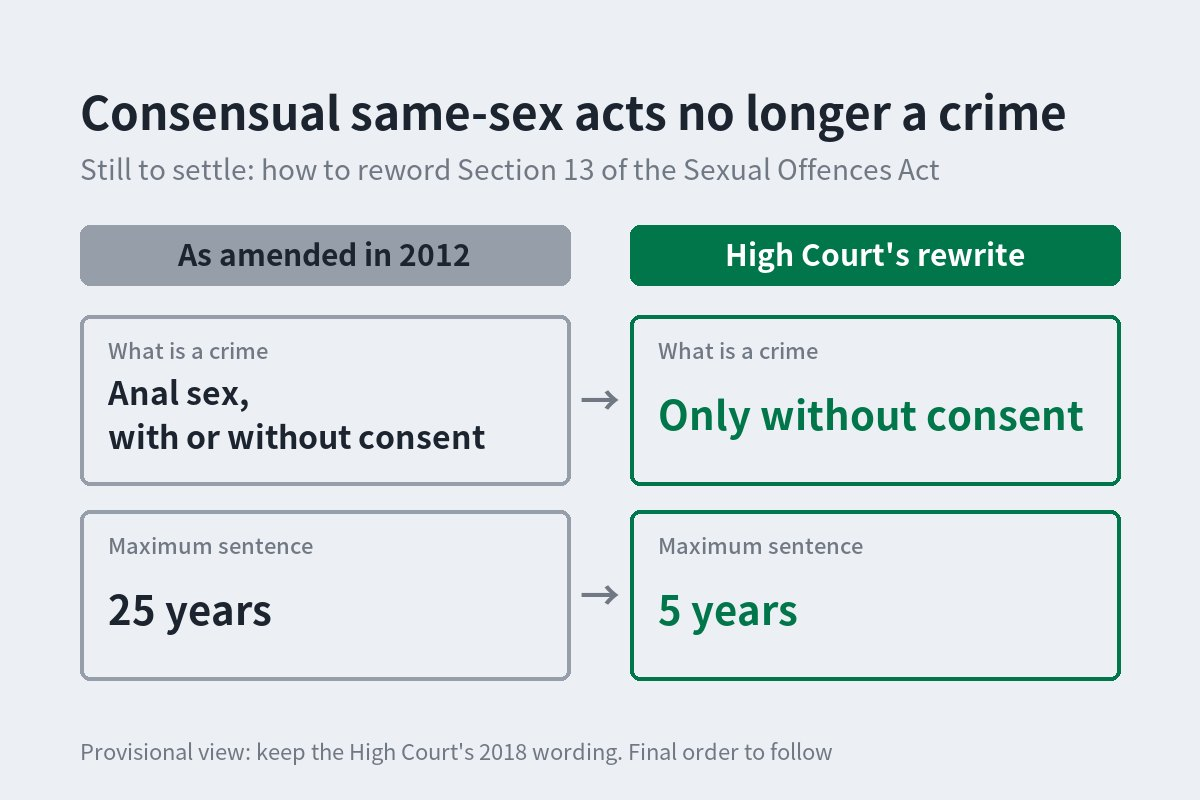
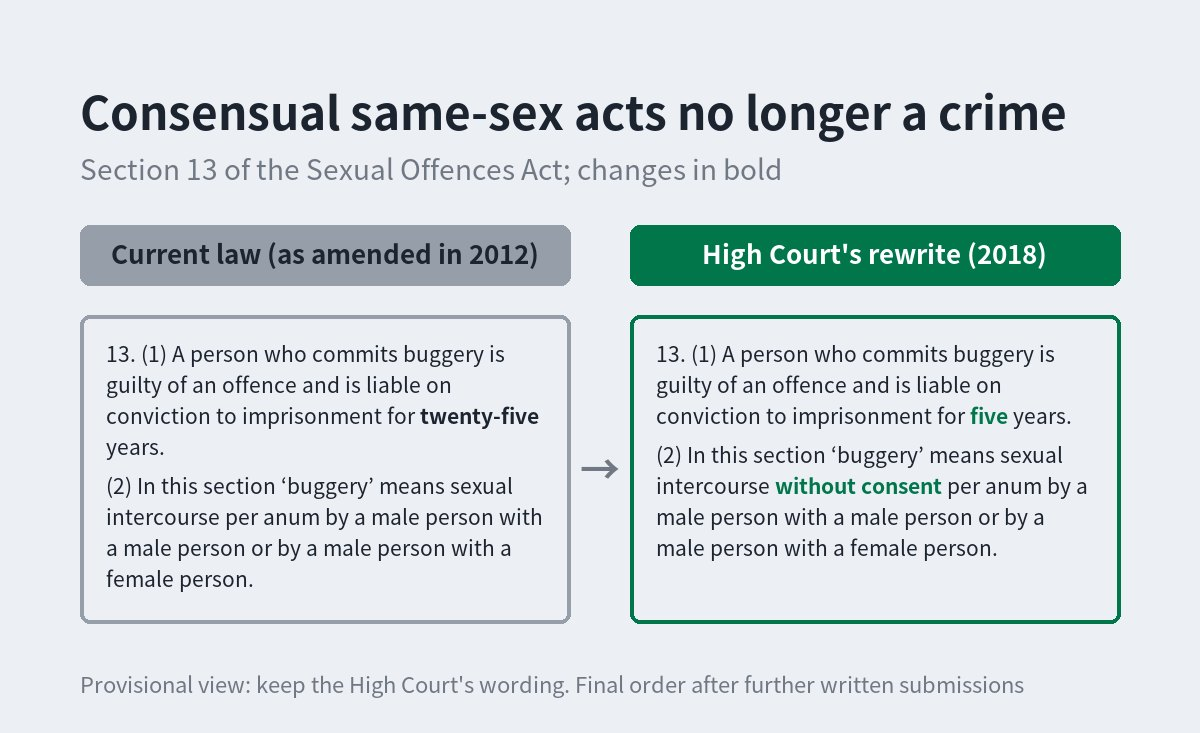
update 2026-11-12

diff --git a/news/trinidad_jcpc_buggery_ruling.html b/news/trinidad_jcpc_buggery_ruling.html
@@ -31,7 +31,7 @@
 <p class="dek">카리브해 섬나라 트리니다드토바고에서 합의한 동성 성인끼리의 성관계까지 처벌하던 조항을, 이 나라 최종 법원인 영국 추밀원이 트리니다드토바고 헌법에 어긋난다고 판단했어요. 정부는 헌법의 두 보호 장치를 내세웠고, 추밀원은 둘 다 받아들이지 않았어요. 남은 건 조문을 어떻게 고칠지예요.</p>
 <div class="paper"><div><a class="by" href="../editorial.html">AI가 썼어요</a><span class="pub"><time datetime="2026-11-12">2026.11.12</time></span></div><div class="sharebar sb-top"><span class="sb-more"><button type="button" class="ic" data-more aria-label="더 보기" title="더 보기"><svg viewBox="0 0 24 24" width="20" height="20" fill="currentColor" aria-hidden="true"><circle cx="5.5" cy="12" r="1.5"/><circle cx="12" cy="12" r="1.5"/><circle cx="18.5" cy="12" r="1.5"/></svg></button><span class="sb-menu"><button type="button" data-share="native" data-u="https://holtnews.com/news/trinidad_jcpc_buggery_ruling.html" data-t="40년 된 법, 왜 지금 기준으로 심판받았나" data-ok="링크를 복사했어요">공유하기</button><button type="button" data-share="copy" data-u="https://holtnews.com/news/trinidad_jcpc_buggery_ruling.html" data-ok="링크를 복사했어요">링크 복사</button><a href="mailto:hello@holtnews.com?subject=오류 제보: 40년 된 법, 왜 지금 기준으로 심판받았나">오류 제보</a></span></span></div></div>
 <figure class="photo"><img src="../img/news/trinidad_jcpc_buggery_ruling.jpg" alt="서로 끌어안은 두 남성" width="1200" height="800"><figcaption>서로 끌어안은 두 남성 · 사진: alllessandro_ · Pixabay</figcaption></figure>
-<section class="sec"><h2><span class="n">01</span>런던에서 내려진 결정</h2><p>영국 <span class="fn">추밀원 사법위원회<button type="button" class="fn-i" aria-label="설명 보기" aria-expanded="false">i</button><span class="fn-box" role="tooltip">추밀원은 영국 국왕에게 조언하던 오래된 자문 기구예요. 그 안의 사법위원회가 법원 역할을 해요. 영국 대법원과는 다른 곳이지만 재판은 주로 영국 대법관들이 겸해서 맡아요. 영국 사건이 아니라, 최종심을 아직 영국에 맡겨 둔 영연방 나라와 영국 해외 영토의 사건을 그 나라 법으로 판단해요.</span></span>가 11월 10일, 트리니다드토바고 성범죄법 13조와 16조가 트리니다드토바고 헌법에 어긋난다고 판단했어요. 대법관 5명 만장일치예요.</p><p>두 조항은 이제 성인이 서로 동의해 사적인 곳에서 한 동성 간 성적 행위에는 적용할 수 없어요. 트리니다드토바고 헌법이 보장하는, 사생활과 가족생활을 존중받을 권리를 침해한다는 이유예요. 미성년자가 관련되거나 동의가 없는 행위는 이번 판결과 상관없이 처벌 대상으로 남아요.</p><p>트리니다드토바고는 남아메리카 베네수엘라 앞바다의 카리브해 섬나라예요. 1962년 영국에서 독립했지만, 마지막 상고심은 지금도 런던의 추밀원이 맡아요. 우리로 치면 대법원 자리를 영국 대법관들이 채우는 셈이에요.</p></section><section class="sec"><h2><span class="n">02</span>두 조항은 무엇을 처벌했나</h2><p>13조는 영어로 buggery, 즉 항문 성교를 처벌해요. 법은 이를 &#x27;남성이 남성 또는 여성과 하는 항문 성교&#x27;로 정의해요. 남성끼리든 남녀 사이든, 서로 동의했든 아니든 처벌 대상이에요.</p><p>최고 형량은 1986년 처음 만들 때 성인끼리면 징역 10년, 성인이 미성년자에게 하면 종신형, 미성년자가 하면 징역 5년이었어요. 2012년 아동법으로 바뀌면서 누가 누구에게 했든 최고 징역 25년이 됐어요.</p><p>16조는 &#x27;중대 외설&#x27;을 처벌해요. 성교가 아니면서 성기를 써서 성적 욕구를 채우는 행위로, 남성과 여성 모두에게 적용돼요. 다만 부부 사이, 또는 16세 이상인 남녀가 서로 동의해 사적인 곳에서 한 행위는 처벌하지 않는다는 예외가 있어요.</p><p>이 예외는 남녀 사이에만 있어요. 두 조항을 합치면, 동성끼리는 성인이 서로 동의했더라도 남성끼리든 여성끼리든 성적 행위가 모두 처벌 대상이 되는 셈이에요.</p></section><section class="sec"><h2><span class="n">03</span>소송을 낸 사람과 그의 주장</h2><p>소송을 낸 제이슨 존스는 1964년 태어나 수도 포트오브스페인에서 자란 트리니다드토바고 시민이에요. 16세 때부터 게이라는 걸 숨기지 않았어요. 성적 지향 때문에 괴롭힘과 차별을 겪다 1996년 영국 잉글랜드로 옮겨 갔고, 2010~2014년 고국에서 다시 살다가 잉글랜드로 돌아갔어요. 그 뒤에도 고국을 자주 오가요.</p><p>존스는 2017년 2월 23일 트리니다드토바고 고등법원에 소송을 냈어요. 13조와 16조가 헌법이 보장한 자신의 기본권을 침해한다는 걸 법원이 확인해 달라는 소송이에요.</p><p>이 나라에서 두 조항으로 기소된 사람은 오랫동안 없었어요. 존스는 법이 있는 것만으로 피해를 본다고 주장했어요. 법원에 낸 진술서에 따르면 그는 밖에 나가면 거의 매일 괴롭힘과 욕설을 들었고, 안전이 걱정돼 대중교통을 피했어요. 가수로 무대에 서면 돌·유리병·나무 조각으로 공격당한 적도 여러 번 있었지만 경찰은 지켜 주지 않았어요. 성적 지향 때문에 언제든 체포돼 무거운 처벌을 받을 수 있다는 불안 속에 살았다고도 했어요.</p><p>진술서는 두 조항이 존스의 삶에 어떤 영향을 줬는지 보여 주는 증거였어요. 소송에서 다툰 건 진술 내용이 아니라 두 조항이 헌법에 어긋나는지였고, 진술은 반박 없이 사실로 받아들여졌어요. 1심은 두 조항이 존스의 사생활을 범죄로 만들고, 누구를 사랑하고 누구와 살지 스스로 정할 존엄을 무시한다고 봤어요. 이성애자와 다르게 대하고, 다른 사람들이 그를 낮춰 보게 만드는 근거가 된다고도 했어요.</p></section><section class="sec"><h2><span class="n">04</span>예외 두 가지</h2><p>정부를 대표한 법무장관은 두 조항이 헌법에 어긋나지 않는다고 맞섰어요. 트리니다드토바고 헌법에는 기본권과 어긋나는 법도 살려 두는 예외 조항이 있는데, 두 조항이 여기에 해당해 유효하다는 거예요. 정부가 내세운 예외는 두 가지였어요.</p><p>첫째는 헌법 6조예요. 6조에 따르면 현행 헌법이 시행된 1976년 전에 만들어진 법은 헌법상 기본권을 침해하더라도 효력을 잃지 않아요.</p><p>트리니다드토바고가 영국 식민지였던 1925년에도 비슷한 처벌법이 있었어요. 항문 성교와, 남성끼리의 &#x27;심한 외설&#x27; 행위를 처벌했어요. 여성끼리는 처벌하지 않았어요. 1986년 성범죄법은 이 1925년 법을 없애고 대신한 법이에요. 여성끼리의 행위도 16조로 처벌하게 됐고, 형량도 무거워졌어요.</p><p>그래서 1986년 법을 1976년 전의 옛 법처럼 보호할 수 있느냐가 쟁점이 됐어요. 여기서 6조 2항이 나와요. 옛 법을 고쳐 다시 만든 법도 6조의 보호를 받되, 옛 법보다 기본권을 더 제한한 부분만은 효력을 잃고 그 자리에 옛 법 조항이 다시 적용된다는 조항이에요. 존스 쪽 변호인은 이걸 &#x27;되돌리기&#x27; 조항이라고 불렀어요.</p><p>둘째는 헌법 13조예요. 법에 &#x27;기본권과 어긋나더라도 효력을 가진다&#x27;고 적고 상·하원에서 각각 전체 의원 5분의 3 이상이 찬성하면, 그 법은 기본권과 어긋나도 유효해요. 1986년 성범죄법이 이 절차로 통과됐어요.</p><p>13조에는 단서가 붙어 있어요. 그 법이 &#x27;권리와 자유를 제대로 존중하는 사회&#x27;에서 정당화할 수 없다는 게 드러나면 13조의 보호를 받지 못해요.</p></section><section class="sec"><h2><span class="n">05</span>첫째 예외: 1986년 법은 옛 법인가</h2><p>1심 고등법원은 2018년 4월 12일, 1986년 법은 옛 법이 아니라 6조의 보호를 받지 못한다고 보고 두 조항이 위헌이라고 판단했어요.</p><p>항소법원은 2025년 3월 25일 이 판단을 뒤집었어요. 1986년 법은 1925년 법을 고쳐 다시 만든 법이니 6조 2항이 적용된다고 봤어요. 여성끼리의 행위까지 처벌하고 형량을 높인 부분은 1925년 법보다 기본권을 더 제한하니, 그 부분만 효력을 잃고 1925년 법이 되살아난다는 거예요.</p><p>그 결과 여성끼리의 행위는 처벌 대상에서 빠졌지만, 합의한 성인 남성끼리는 여전히 최고 징역 5년으로 처벌받을 수 있었어요.</p><p>추밀원은 이 판단을 다시 뒤집었어요. 1986년 법은 옛 법을 고친 게 아니라 새로 만든 법이라 6조 2항이 적용되지 않는다는 거예요. 1986년 법은 첫머리에 옛 법을 &#x27;없애고 대신한다&#x27;고 적었고, 정부가 법률위원회 권고를 받아 성범죄 법 전체를 새로 짰다는 점을 근거로 들었어요.</p><p>옛 법을 살려 두는 예외 조항을 넓게 읽으면 기본권을 지키려는 헌법의 목적이 약해지니, 좁게 읽어야 한다고도 했어요.</p></section><section class="sec"><h2><span class="n">06</span>둘째 예외: 1986년 기준이냐, 지금 기준이냐</h2><p>둘째 예외인 헌법 13조에 대해서는 1심 판사와 항소법원 판사 3명, 모두 4명의 의견이 같았어요. 두 조항은 &#x27;권리와 자유를 제대로 존중하는 사회&#x27;에서 정당화할 수 없으니 13조의 보호를 받지 못한다는 거예요. 그러자 정부는 추밀원에서 새 주장을 처음 꺼냈어요.</p><p>정당한지는 법이 만들어진 1986년 기준으로 따져야 한다는 주장이에요. 40년 사이 사회 인식이 크게 바뀌었으니, 지금 기준으로 내린 결론이 1986년에도 맞는다고 볼 수는 없다는 거예요.</p><p>추밀원은 받아들이지 않았어요. 기본권 침해를 다투는 사람은 지금을 사는 사람이니 지금 기준으로 따져야 한다고 봤어요. 1986년 법을 통과시킨 의원과 유권자도 40년 사이 크게 바뀌었다고 짚었어요.</p><p>정부가 두 조항을 정당화하며 내세운 근거는 &#x27;전통&#x27;뿐이었어요. 추밀원은 식민지 시절 법이 오래 살아남았다는 사실만으로는 정당한 목적이 될 수 없다고 했어요. 지금도 사회가 널리 지키는 관습이라고 주장하려면 증거가 있어야 하는데, 정부는 하나도 내지 않았어요. 설령 목적이 정당하더라도, 사생활의 가장 깊은 부분까지 처벌하는 건 얻는 것에 비해 침해가 너무 크다고 덧붙였어요.</p></section><section class="sec"><h2><span class="n">07</span>남은 건 고칠 문구</h2><p>사적인 곳에서 합의한 동성 성인을 처벌할 수 없다는 판단은 이번에 정해졌어요. 남은 건 조문을 어떻게 고칠지예요.</p><p>1심은 2018년 9월 20일, 두 조항을 통째로 없애지 않고 문구를 고쳐 남겨 두는 명령을 냈어요. 13조는 &#x27;동의 없는&#x27; 경우만 처벌하고 최고 형량을 징역 5년으로 낮추는 식이에요. 추밀원은 이 문구를 그대로 두는 쪽으로 잠정 의견을 냈어요.</p><p>존스 쪽은 두 조항을 통째로 지워 달라고 했어요. 처벌이 필요한 행위는 다른 형법 조항으로 이미 처벌할 수 있다는 이유예요. 추밀원은 겹치는 범죄를 정리하는 건 법원이 아니라 의회 몫이라고 선을 그었어요.</p><p>존스 쪽이 원하면 서면 의견을 더 받고, 법무장관도 답할 기회를 얻은 뒤 최종 명령이 나와요.</p></section><figure class="photo"><img src="../img/news/trinidad_jcpc_buggery_ruling-b.jpg" alt="트리니다드토바고 성범죄법 13조, 2012년 개정 조문과 1심이 2018년 고친 문구" loading="lazy" width="1200" height="800"><figcaption>트리니다드토바고 성범죄법 13조, 2012년 개정 조문과 1심이 2018년 고친 문구 · 그림: HOLT NEWS · 자료: 영국 추밀원 판결문</figcaption></figure><section class="sec"><h2><span class="n">08</span>이웃 나라로 번질까</h2><p>6조 2항, 즉 &#x27;되돌리기&#x27; 조항에 관한 판단은 다른 나라에 쓰이기 어려워요. 추밀원은 이런 조항이 트리니다드토바고에만 있는 것 같다고 했고, 양쪽 변호인 모두 다른 나라 헌법에서 비슷한 조항을 찾지 못했다고 적었어요.</p><p>나머지 두 판단은 다른 나라에도 쓰일 수 있어요. 세인트루시아처럼 다른 나라 헌법에도 독립 전 법을 기본권 심사에서 빼 주는 예외 조항이 있어요. 추밀원은 이런 예외 조항을 좁게 읽어야 한다고 했어요. 옛 법과 비슷해 보여도 새로 만든 법이면 보호하지 않는다는 뜻이에요. 이 원칙은 추밀원이 세인트루시아 헌법 판례에서 가져온 거예요.</p><p>법이 정당한지는 만들어진 때가 아니라 지금 기준으로 따진다는 판단도, 비슷한 처벌법을 다투는 다른 나라 소송에서 인용될 수 있어요. 판결문은 바베이도스·도미니카·세인트루시아 법원의 최근 판결을 들며 처벌하지 않는 쪽으로 흐름이 분명하다고 적었어요. 이번 소송엔 벨리즈·버뮤다 등 다른 지역 단체도 의견서를 냈어요.</p></section><script>(function(){if(window.__fn)return;window.__fn=1;function fit(f){var b=f.querySelector('.fn-box');b.style.left='';f.classList.remove('down');var r=b.getBoundingClientRect(),w=document.documentElement.clientWidth;if(r.right>w-12)b.style.left=(b.offsetLeft-(r.right-(w-12)))+'px';if(r.top<80)f.classList.add('down');}document.querySelectorAll('.fn').forEach(function(f){f.addEventListener('mouseenter',function(){fit(f)})});document.addEventListener('click',function(ev){var i=ev.target.closest('.fn-i');document.querySelectorAll('.fn.open').forEach(function(x){if(!i||x!==i.parentNode){x.classList.remove('open');x.querySelector('.fn-i').setAttribute('aria-expanded','false')}});if(i){var f=i.parentNode,o=f.classList.toggle('open');i.setAttribute('aria-expanded',o?'true':'false');if(o)fit(f)}});document.addEventListener('keydown',function(ev){if(ev.key==='Escape')document.querySelectorAll('.fn.open').forEach(function(x){x.classList.remove('open')})})})()</script>
+<section class="sec"><h2><span class="n">01</span>런던에서 내려진 결정</h2><p>영국 <span class="fn">추밀원 사법위원회<button type="button" class="fn-i" aria-label="설명 보기" aria-expanded="false">i</button><span class="fn-box" role="tooltip">추밀원은 영국 국왕에게 조언하던 오래된 자문 기구예요. 그 안의 사법위원회가 법원 역할을 해요. 영국 대법원과는 다른 곳이지만 재판은 주로 영국 대법관들이 겸해서 맡아요. 영국 사건이 아니라, 최종심을 아직 영국에 맡겨 둔 영연방 나라와 영국 해외 영토의 사건을 그 나라 법으로 판단해요.</span></span>가 11월 10일, 트리니다드토바고 성범죄법 13조와 16조가 트리니다드토바고 헌법에 어긋난다고 판단했어요. 대법관 5명 만장일치예요.</p><p>두 조항은 이제 성인이 서로 동의해 사적인 곳에서 한 동성 간 성적 행위에는 적용할 수 없어요. 트리니다드토바고 헌법이 보장하는, 사생활과 가족생활을 존중받을 권리를 침해한다는 이유예요. 미성년자가 관련되거나 동의가 없는 행위는 이번 판결과 상관없이 처벌 대상으로 남아요.</p><p>트리니다드토바고는 남아메리카 베네수엘라 앞바다의 카리브해 섬나라예요. 1962년 영국에서 독립했지만, 마지막 상고심은 지금도 런던의 추밀원이 맡아요. 우리로 치면 대법원 자리를 영국 대법관들이 채우는 셈이에요.</p></section><section class="sec"><h2><span class="n">02</span>두 조항은 무엇을 처벌했나</h2><p>13조는 영어로 buggery, 즉 항문 성교를 처벌해요. 법은 이를 &#x27;남성이 남성 또는 여성과 하는 항문 성교&#x27;로 정의해요. 남성끼리든 남녀 사이든, 서로 동의했든 아니든 처벌 대상이에요.</p><p>최고 형량은 1986년 처음 만들 때 성인끼리면 징역 10년, 성인이 미성년자에게 하면 종신형, 미성년자가 하면 징역 5년이었어요. 2012년 아동법으로 바뀌면서 누가 누구에게 했든 최고 징역 25년이 됐어요.</p><p>16조는 &#x27;중대 외설&#x27;을 처벌해요. 성교가 아니면서 성기를 써서 성적 욕구를 채우는 행위로, 남성과 여성 모두에게 적용돼요. 다만 부부 사이, 또는 16세 이상인 남녀가 서로 동의해 사적인 곳에서 한 행위는 처벌하지 않는다는 예외가 있어요.</p><p>이 예외는 남녀 사이에만 있어요. 두 조항을 합치면, 동성끼리는 성인이 서로 동의했더라도 남성끼리든 여성끼리든 성적 행위가 모두 처벌 대상이 되는 셈이에요.</p></section><section class="sec"><h2><span class="n">03</span>소송을 낸 사람과 그의 주장</h2><p>소송을 낸 제이슨 존스는 1964년 태어나 수도 포트오브스페인에서 자란 트리니다드토바고 시민이에요. 16세 때부터 게이라는 걸 숨기지 않았어요. 성적 지향 때문에 괴롭힘과 차별을 겪다 1996년 영국 잉글랜드로 옮겨 갔고, 2010~2014년 고국에서 다시 살다가 잉글랜드로 돌아갔어요. 그 뒤에도 고국을 자주 오가요.</p><p>존스는 2017년 2월 23일 트리니다드토바고 고등법원에 소송을 냈어요. 13조와 16조가 헌법이 보장한 자신의 기본권을 침해한다는 걸 법원이 확인해 달라는 소송이에요.</p><p>이 나라에서 두 조항으로 기소된 사람은 오랫동안 없었어요. 존스는 법이 있는 것만으로 피해를 본다고 주장했어요. 법원에 낸 진술서에 따르면 그는 밖에 나가면 거의 매일 괴롭힘과 욕설을 들었고, 안전이 걱정돼 대중교통을 피했어요. 가수로 무대에 서면 돌·유리병·나무 조각으로 공격당한 적도 여러 번 있었지만 경찰은 지켜 주지 않았어요. 성적 지향 때문에 언제든 체포돼 무거운 처벌을 받을 수 있다는 불안 속에 살았다고도 했어요.</p><p>진술서는 두 조항이 존스의 삶에 어떤 영향을 줬는지 보여 주는 증거였어요. 소송에서 다툰 건 진술 내용이 아니라 두 조항이 헌법에 어긋나는지였고, 진술은 반박 없이 사실로 받아들여졌어요. 1심은 두 조항이 존스의 사생활을 범죄로 만들고, 누구를 사랑하고 누구와 살지 스스로 정할 존엄을 무시한다고 봤어요. 이성애자와 다르게 대하고, 다른 사람들이 그를 낮춰 보게 만드는 근거가 된다고도 했어요.</p></section><section class="sec"><h2><span class="n">04</span>예외 두 가지</h2><p>정부를 대표한 법무장관은 두 조항이 헌법에 어긋나지 않는다고 맞섰어요. 트리니다드토바고 헌법에는 기본권과 어긋나는 법도 살려 두는 예외 조항이 있는데, 두 조항이 여기에 해당해 유효하다는 거예요. 정부가 내세운 예외는 두 가지였어요.</p><p>첫째는 헌법 6조예요. 6조에 따르면 현행 헌법이 시행된 1976년 전에 만들어진 법은 헌법상 기본권을 침해하더라도 효력을 잃지 않아요.</p><p>트리니다드토바고가 영국 식민지였던 1925년에도 비슷한 처벌법이 있었어요. 항문 성교와, 남성끼리의 &#x27;심한 외설&#x27; 행위를 처벌했어요. 여성끼리는 처벌하지 않았어요. 1986년 성범죄법은 이 1925년 법을 없애고 대신한 법이에요. 여성끼리의 행위도 16조로 처벌하게 됐고, 형량도 무거워졌어요.</p><p>그래서 1986년 법을 1976년 전의 옛 법처럼 보호할 수 있느냐가 쟁점이 됐어요. 여기서 6조 2항이 나와요. 옛 법을 고쳐 다시 만든 법도 6조의 보호를 받되, 옛 법보다 기본권을 더 제한한 부분만은 효력을 잃고 그 자리에 옛 법 조항이 다시 적용된다는 조항이에요. 존스 쪽 변호인은 이걸 &#x27;되돌리기&#x27; 조항이라고 불렀어요.</p><p>둘째는 헌법 13조예요. 법에 &#x27;기본권과 어긋나더라도 효력을 가진다&#x27;고 적고 상·하원에서 각각 전체 의원 5분의 3 이상이 찬성하면, 그 법은 기본권과 어긋나도 유효해요. 1986년 성범죄법이 이 절차로 통과됐어요.</p><p>13조에는 단서가 붙어 있어요. 그 법이 &#x27;권리와 자유를 제대로 존중하는 사회&#x27;에서 정당화할 수 없다는 게 드러나면 13조의 보호를 받지 못해요.</p></section><section class="sec"><h2><span class="n">05</span>첫째 예외: 1986년 법은 옛 법인가</h2><p>1심 고등법원은 2018년 4월 12일, 1986년 법은 옛 법이 아니라 6조의 보호를 받지 못한다고 보고 두 조항이 위헌이라고 판단했어요.</p><p>항소법원은 2025년 3월 25일 이 판단을 뒤집었어요. 1986년 법은 1925년 법을 고쳐 다시 만든 법이니 6조 2항이 적용된다고 봤어요. 여성끼리의 행위까지 처벌하고 형량을 높인 부분은 1925년 법보다 기본권을 더 제한하니, 그 부분만 효력을 잃고 1925년 법이 되살아난다는 거예요.</p><p>그 결과 여성끼리의 행위는 처벌 대상에서 빠졌지만, 합의한 성인 남성끼리는 여전히 최고 징역 5년으로 처벌받을 수 있었어요.</p><p>추밀원은 이 판단을 다시 뒤집었어요. 1986년 법은 옛 법을 고친 게 아니라 새로 만든 법이라 6조 2항이 적용되지 않는다는 거예요. 1986년 법은 첫머리에 옛 법을 &#x27;없애고 대신한다&#x27;고 적었고, 정부가 법률위원회 권고를 받아 성범죄 법 전체를 새로 짰다는 점을 근거로 들었어요.</p><p>옛 법을 살려 두는 예외 조항을 넓게 읽으면 기본권을 지키려는 헌법의 목적이 약해지니, 좁게 읽어야 한다고도 했어요.</p></section><section class="sec"><h2><span class="n">06</span>둘째 예외: 1986년 기준이냐, 지금 기준이냐</h2><p>둘째 예외인 헌법 13조에 대해서는 1심 판사와 항소법원 판사 3명, 모두 4명의 의견이 같았어요. 두 조항은 &#x27;권리와 자유를 제대로 존중하는 사회&#x27;에서 정당화할 수 없으니 13조의 보호를 받지 못한다는 거예요. 그러자 정부는 추밀원에서 새 주장을 처음 꺼냈어요.</p><p>정당한지는 법이 만들어진 1986년 기준으로 따져야 한다는 주장이에요. 40년 사이 사회 인식이 크게 바뀌었으니, 지금 기준으로 내린 결론이 1986년에도 맞는다고 볼 수는 없다는 거예요.</p><p>추밀원은 받아들이지 않았어요. 기본권 침해를 다투는 사람은 지금을 사는 사람이니 지금 기준으로 따져야 한다고 봤어요. 1986년 법을 통과시킨 의원과 유권자도 40년 사이 크게 바뀌었다고 짚었어요.</p><p>정부가 두 조항을 정당화하며 내세운 근거는 &#x27;전통&#x27;뿐이었어요. 추밀원은 식민지 시절 법이 오래 살아남았다는 사실만으로는 정당한 목적이 될 수 없다고 했어요. 지금도 사회가 널리 지키는 관습이라고 주장하려면 증거가 있어야 하는데, 정부는 하나도 내지 않았어요. 설령 목적이 정당하더라도, 사생활의 가장 깊은 부분까지 처벌하는 건 얻는 것에 비해 침해가 너무 크다고 덧붙였어요.</p></section><section class="sec"><h2><span class="n">07</span>남은 건 고칠 문구</h2><p>사적인 곳에서 합의한 동성 성인을 처벌할 수 없다는 판단은 이번에 정해졌어요. 남은 건 조문을 어떻게 고칠지예요.</p><p>1심은 2018년 9월 20일, 두 조항을 통째로 없애지 않고 문구를 고쳐 남겨 두는 명령을 냈어요. 13조는 &#x27;동의 없는&#x27; 경우만 처벌하고 최고 형량을 징역 5년으로 낮추는 식이에요. 추밀원은 이 문구를 그대로 두는 쪽으로 잠정 의견을 냈어요.</p><p>존스 쪽은 두 조항을 통째로 지워 달라고 했어요. 처벌이 필요한 행위는 다른 형법 조항으로 이미 처벌할 수 있다는 이유예요. 추밀원은 겹치는 범죄를 정리하는 건 법원이 아니라 의회 몫이라고 선을 그었어요.</p><p>존스 쪽이 원하면 서면 의견을 더 받고, 법무장관도 답할 기회를 얻은 뒤 최종 명령이 나와요.</p></section><figure class="photo"><img src="../img/news/trinidad_jcpc_buggery_ruling-b.jpg" alt="트리니다드토바고 성범죄법 13조, 2012년 개정 조문과 1심이 2018년 고친 문구" loading="lazy" width="1200" height="890"><figcaption>트리니다드토바고 성범죄법 13조, 2012년 개정 조문과 1심이 2018년 고친 문구 · 그림: HOLT NEWS · 자료: 영국 추밀원 판결문</figcaption></figure><section class="sec"><h2><span class="n">08</span>이웃 나라로 번질까</h2><p>6조 2항, 즉 &#x27;되돌리기&#x27; 조항에 관한 판단은 다른 나라에 쓰이기 어려워요. 추밀원은 이런 조항이 트리니다드토바고에만 있는 것 같다고 했고, 양쪽 변호인 모두 다른 나라 헌법에서 비슷한 조항을 찾지 못했다고 적었어요.</p><p>나머지 두 판단은 다른 나라에도 쓰일 수 있어요. 세인트루시아처럼 다른 나라 헌법에도 독립 전 법을 기본권 심사에서 빼 주는 예외 조항이 있어요. 추밀원은 이런 예외 조항을 좁게 읽어야 한다고 했어요. 옛 법과 비슷해 보여도 새로 만든 법이면 보호하지 않는다는 뜻이에요. 이 원칙은 추밀원이 세인트루시아 헌법 판례에서 가져온 거예요.</p><p>법이 정당한지는 만들어진 때가 아니라 지금 기준으로 따진다는 판단도, 비슷한 처벌법을 다투는 다른 나라 소송에서 인용될 수 있어요. 판결문은 바베이도스·도미니카·세인트루시아 법원의 최근 판결을 들며 처벌하지 않는 쪽으로 흐름이 분명하다고 적었어요. 이번 소송엔 벨리즈·버뮤다 등 다른 지역 단체도 의견서를 냈어요.</p></section><script>(function(){if(window.__fn)return;window.__fn=1;function fit(f){var b=f.querySelector('.fn-box');b.style.left='';f.classList.remove('down');var r=b.getBoundingClientRect(),w=document.documentElement.clientWidth;if(r.right>w-12)b.style.left=(b.offsetLeft-(r.right-(w-12)))+'px';if(r.top<80)f.classList.add('down');}document.querySelectorAll('.fn').forEach(function(f){f.addEventListener('mouseenter',function(){fit(f)})});document.addEventListener('click',function(ev){var i=ev.target.closest('.fn-i');document.querySelectorAll('.fn.open').forEach(function(x){if(!i||x!==i.parentNode){x.classList.remove('open');x.querySelector('.fn-i').setAttribute('aria-expanded','false')}});if(i){var f=i.parentNode,o=f.classList.toggle('open');i.setAttribute('aria-expanded',o?'true':'false');if(o)fit(f)}});document.addEventListener('keydown',function(ev){if(ev.key==='Escape')document.querySelectorAll('.fn.open').forEach(function(x){x.classList.remove('open')})})})()</script>
 <div class="fix"><h4>바로잡습니다</h4><ul><li><time datetime="2026-11-12">2026.11.12</time> 16조 예외 나이를 판결문 문구대로 &#x27;16세가 넘고&#x27;에서 &#x27;16세 이상&#x27;으로 바로잡고, 부부 사이 예외를 넣었습니다. 소송을 낸 존스가 무엇을 주장했는지와 진술서 내용을 판결문대로 보강했습니다.</li></ul></div>
 <div class="sharebar sb-end"><span class="sb-more"><button type="button" class="ic" data-more aria-label="더 보기" title="더 보기"><svg viewBox="0 0 24 24" width="20" height="20" fill="currentColor" aria-hidden="true"><circle cx="5.5" cy="12" r="1.5"/><circle cx="12" cy="12" r="1.5"/><circle cx="18.5" cy="12" r="1.5"/></svg></button><span class="sb-menu"><button type="button" data-share="native" data-u="https://holtnews.com/news/trinidad_jcpc_buggery_ruling.html" data-t="40년 된 법, 왜 지금 기준으로 심판받았나" data-ok="링크를 복사했어요">공유하기</button><button type="button" data-share="copy" data-u="https://holtnews.com/news/trinidad_jcpc_buggery_ruling.html" data-ok="링크를 복사했어요">링크 복사</button><a href="mailto:hello@holtnews.com?subject=오류 제보: 40년 된 법, 왜 지금 기준으로 심판받았나">오류 제보</a></span></span></div>
 

diff --git a/en/news/trinidad_jcpc_buggery_ruling.html b/en/news/trinidad_jcpc_buggery_ruling.html
@@ -31,7 +31,7 @@
 <p class="dek">Britain&#x27;s Privy Council, the final court of appeal for Trinidad and Tobago, has ruled that laws criminalising sex between consenting adults of the same sex breach the constitution. The government argued two constitutional shields protected the laws. The court rejected both; only the exact wording of the fix is still to be settled.</p>
 <div class="paper"><div><a class="by" href="../editorial.html">Written by AI</a><span class="pub"><time datetime="2026-11-12">Nov 12, 2026</time></span></div><div class="sharebar sb-top"><span class="sb-more"><button type="button" class="ic" data-more aria-label="More" title="More"><svg viewBox="0 0 24 24" width="20" height="20" fill="currentColor" aria-hidden="true"><circle cx="5.5" cy="12" r="1.5"/><circle cx="12" cy="12" r="1.5"/><circle cx="18.5" cy="12" r="1.5"/></svg></button><span class="sb-menu"><button type="button" data-share="native" data-u="https://holtnews.com/en/news/trinidad_jcpc_buggery_ruling.html" data-t="Trinidad and Tobago&#x27;s buggery law breaches rights, Privy Council rules" data-ok="Link copied">Share</button><button type="button" data-share="copy" data-u="https://holtnews.com/en/news/trinidad_jcpc_buggery_ruling.html" data-ok="Link copied">Copy link</button><a href="mailto:hello@holtnews.com?subject=Error report: Trinidad and Tobago&#x27;s buggery law breaches rights, Privy Council rules">Report an error</a></span></span></div></div>
 <figure class="photo"><img src="../../img/news/trinidad_jcpc_buggery_ruling.jpg" alt="Two men embrace" width="1200" height="800"><figcaption>Two men embrace · Photo: alllessandro_ · Pixabay</figcaption></figure>
-<section class="sec"><h2><span class="n">01</span>The ruling</h2><p>Five judges of the <span class="fn">Judicial Committee of the Privy Council<button type="button" class="fn-i" aria-label="Show note" aria-expanded="false">i</button><span class="fn-box" role="tooltip">The Privy Council is an old body that advises the British monarch. Its Judicial Committee works as a court. It is separate from the UK Supreme Court, though mostly the same justices sit on it. It hears final appeals from some Commonwealth countries and UK overseas territories, applying their own laws.</span></span> ruled unanimously on November 10 that two sections of Trinidad and Tobago&#x27;s Sexual Offences Act 1986 breach the right to respect for private and family life in the country&#x27;s constitution.</p><p>Trinidad and Tobago, a Caribbean nation off the coast of Venezuela, became independent from Britain in 1962 but still sends its final appeals to the Privy Council in London, a court staffed mainly by UK Supreme Court justices.</p></section><section class="sec"><h2><span class="n">02</span>What the law punishes</h2><p>Section 13 makes buggery a crime whether or not both people consent. Since a 2012 amendment, the maximum sentence has been 25 years. Section 16 criminalises &quot;serious indecency&quot;, with exceptions only for husband and wife, or a man and a woman aged 16 or over who both consent, acting in private.</p><p>The case was brought in February 2017 by Jason Jones, a gay man born in 1964 and raised in Port of Spain, the capital. He asked the courts to declare that the two sections breached his constitutional rights. No one had been prosecuted under them for many years, but he said their existence alone harmed him. In unchallenged evidence he described near-daily harassment and abuse in public, avoiding public transport for fear of his safety, and being attacked several times with rocks, glass bottles and pieces of wood at his performances as a singer, without protection from the police. He lived in constant fear of arrest and punishment. After years of harassment and discrimination he moved to England in 1996, returning to live in Trinidad from 2010 to 2014.</p><p>The trial judge agreed that the law made his private life criminal, ignored his dignity to choose whom to love and live with, treated him differently from heterosexual citizens and gave others a reason to see him as of lesser value.</p></section><section class="sec"><h2><span class="n">03</span>Two shields, both rejected</h2><p>The government argued that the constitution protected the law in two ways. The first was a &quot;savings clause&quot;. Section 6 shields laws that existed before the 1976 constitution from rights challenges. Section 6(2) covers later laws that re-enact those old laws with changes: where a new law restricts rights further than the old one, the old rules snap back in its place. Sex between men was already a crime under a 1925 colonial-era ordinance.</p><p>In March 2025 the Court of Appeal accepted the savings-clause argument and put the older rules back in place. Under that ruling, sex between consenting adult men would still have been a crime, with a maximum of five years. The Privy Council did not. The 1986 act said it would &quot;repeal and replace&quot; the old law, the judges noted, and it was a fresh, comprehensive code drafted after a Law Commission review. Clauses that shield old laws from rights challenges should be read narrowly, they said, or they would hollow out the constitution&#x27;s purpose.</p><p>The second shield was section 13. A law that declares it overrides fundamental rights and is passed by three-fifths of all members of each house stands even if it conflicts with those rights, unless it is shown not to be &quot;reasonably justifiable&quot; in a society that respects individual rights. The 1986 act was passed that way.</p></section><section class="sec"><h2><span class="n">04</span>Judged by today&#x27;s standards</h2><p>Every judge in the lower courts had found the law unjustifiable under section 13. Only at the Privy Council did the government argue that justification should be measured by the standards of 1986, since attitudes had shifted over 40 years. The court disagreed: the test applies when a person&#x27;s rights are before the court, which is now.</p><p>The government&#x27;s only justification was that the law was traditional. The judges said the mere survival of a repressive colonial-era law could not be a legitimate aim, and a living social tradition could count only with evidence that it is still widely accepted. The government had offered none. Even if tradition were a legitimate aim, they said, the law intrudes too deeply into private life to strike a fair balance.</p></section><section class="sec"><h2><span class="n">05</span>What&#x27;s next</h2><p>The core ruling is settled; only the exact wording of the fix is not. The Privy Council will take further written arguments before issuing a final order.</p><p>The ruling already says the two sections cannot be used against private, consensual sex between adults of the same sex. Its provisional view is to keep the fix ordered by the High Court on September 20, 2018, which limits section 13 to sex without consent and cuts the maximum sentence to five years. Lawyers for Mr Jones want both sections struck out entirely, arguing that other criminal laws already cover any conduct that should be punished; the judges said tidying up overlapping offences is a job for Parliament, not the courts.</p><p>The section 6(2) part of the ruling applies only to Trinidad and Tobago. The judges called section 6(2) apparently unique: neither side&#x27;s lawyers could point to a similar clause anywhere else. But the court&#x27;s other points, that clauses shielding old laws must be read narrowly and that justification is judged by today&#x27;s standards, could be cited in challenges elsewhere. Advocacy groups from Belize and Bermuda were among those who intervened in the case.</p></section><script>(function(){if(window.__fn)return;window.__fn=1;function fit(f){var b=f.querySelector('.fn-box');b.style.left='';f.classList.remove('down');var r=b.getBoundingClientRect(),w=document.documentElement.clientWidth;if(r.right>w-12)b.style.left=(b.offsetLeft-(r.right-(w-12)))+'px';if(r.top<80)f.classList.add('down');}document.querySelectorAll('.fn').forEach(function(f){f.addEventListener('mouseenter',function(){fit(f)})});document.addEventListener('click',function(ev){var i=ev.target.closest('.fn-i');document.querySelectorAll('.fn.open').forEach(function(x){if(!i||x!==i.parentNode){x.classList.remove('open');x.querySelector('.fn-i').setAttribute('aria-expanded','false')}});if(i){var f=i.parentNode,o=f.classList.toggle('open');i.setAttribute('aria-expanded',o?'true':'false');if(o)fit(f)}});document.addEventListener('keydown',function(ev){if(ev.key==='Escape')document.querySelectorAll('.fn.open').forEach(function(x){x.classList.remove('open')})})})()</script><figure class="photo"><img src="../../img/news/trinidad_jcpc_buggery_ruling-b-en.jpg" alt="Section 13 of Trinidad and Tobago&#x27;s Sexual Offences Act, as amended in 2012 and as the High Court rewrote it in 2018" loading="lazy" width="1200" height="800"><figcaption>Section 13 of Trinidad and Tobago&#x27;s Sexual Offences Act, as amended in 2012 and as the High Court rewrote it in 2018 · Graphic: HOLT NEWS · Source: Privy Council judgment</figcaption></figure>
+<section class="sec"><h2><span class="n">01</span>The ruling</h2><p>Five judges of the <span class="fn">Judicial Committee of the Privy Council<button type="button" class="fn-i" aria-label="Show note" aria-expanded="false">i</button><span class="fn-box" role="tooltip">The Privy Council is an old body that advises the British monarch. Its Judicial Committee works as a court. It is separate from the UK Supreme Court, though mostly the same justices sit on it. It hears final appeals from some Commonwealth countries and UK overseas territories, applying their own laws.</span></span> ruled unanimously on November 10 that two sections of Trinidad and Tobago&#x27;s Sexual Offences Act 1986 breach the right to respect for private and family life in the country&#x27;s constitution.</p><p>Trinidad and Tobago, a Caribbean nation off the coast of Venezuela, became independent from Britain in 1962 but still sends its final appeals to the Privy Council in London, a court staffed mainly by UK Supreme Court justices.</p></section><section class="sec"><h2><span class="n">02</span>What the law punishes</h2><p>Section 13 makes buggery a crime whether or not both people consent. Since a 2012 amendment, the maximum sentence has been 25 years. Section 16 criminalises &quot;serious indecency&quot;, with exceptions only for husband and wife, or a man and a woman aged 16 or over who both consent, acting in private.</p><p>The case was brought in February 2017 by Jason Jones, a gay man born in 1964 and raised in Port of Spain, the capital. He asked the courts to declare that the two sections breached his constitutional rights. No one had been prosecuted under them for many years, but he said their existence alone harmed him. In unchallenged evidence he described near-daily harassment and abuse in public, avoiding public transport for fear of his safety, and being attacked several times with rocks, glass bottles and pieces of wood at his performances as a singer, without protection from the police. He lived in constant fear of arrest and punishment. After years of harassment and discrimination he moved to England in 1996, returning to live in Trinidad from 2010 to 2014.</p><p>The trial judge agreed that the law made his private life criminal, ignored his dignity to choose whom to love and live with, treated him differently from heterosexual citizens and gave others a reason to see him as of lesser value.</p></section><section class="sec"><h2><span class="n">03</span>Two shields, both rejected</h2><p>The government argued that the constitution protected the law in two ways. The first was a &quot;savings clause&quot;. Section 6 shields laws that existed before the 1976 constitution from rights challenges. Section 6(2) covers later laws that re-enact those old laws with changes: where a new law restricts rights further than the old one, the old rules snap back in its place. Sex between men was already a crime under a 1925 colonial-era ordinance.</p><p>In March 2025 the Court of Appeal accepted the savings-clause argument and put the older rules back in place. Under that ruling, sex between consenting adult men would still have been a crime, with a maximum of five years. The Privy Council did not. The 1986 act said it would &quot;repeal and replace&quot; the old law, the judges noted, and it was a fresh, comprehensive code drafted after a Law Commission review. Clauses that shield old laws from rights challenges should be read narrowly, they said, or they would hollow out the constitution&#x27;s purpose.</p><p>The second shield was section 13. A law that declares it overrides fundamental rights and is passed by three-fifths of all members of each house stands even if it conflicts with those rights, unless it is shown not to be &quot;reasonably justifiable&quot; in a society that respects individual rights. The 1986 act was passed that way.</p></section><section class="sec"><h2><span class="n">04</span>Judged by today&#x27;s standards</h2><p>Every judge in the lower courts had found the law unjustifiable under section 13. Only at the Privy Council did the government argue that justification should be measured by the standards of 1986, since attitudes had shifted over 40 years. The court disagreed: the test applies when a person&#x27;s rights are before the court, which is now.</p><p>The government&#x27;s only justification was that the law was traditional. The judges said the mere survival of a repressive colonial-era law could not be a legitimate aim, and a living social tradition could count only with evidence that it is still widely accepted. The government had offered none. Even if tradition were a legitimate aim, they said, the law intrudes too deeply into private life to strike a fair balance.</p></section><section class="sec"><h2><span class="n">05</span>What&#x27;s next</h2><p>The core ruling is settled; only the exact wording of the fix is not. The Privy Council will take further written arguments before issuing a final order.</p><p>The ruling already says the two sections cannot be used against private, consensual sex between adults of the same sex. Its provisional view is to keep the fix ordered by the High Court on September 20, 2018, which limits section 13 to sex without consent and cuts the maximum sentence to five years. Lawyers for Mr Jones want both sections struck out entirely, arguing that other criminal laws already cover any conduct that should be punished; the judges said tidying up overlapping offences is a job for Parliament, not the courts.</p><p>The section 6(2) part of the ruling applies only to Trinidad and Tobago. The judges called section 6(2) apparently unique: neither side&#x27;s lawyers could point to a similar clause anywhere else. But the court&#x27;s other points, that clauses shielding old laws must be read narrowly and that justification is judged by today&#x27;s standards, could be cited in challenges elsewhere. Advocacy groups from Belize and Bermuda were among those who intervened in the case.</p></section><script>(function(){if(window.__fn)return;window.__fn=1;function fit(f){var b=f.querySelector('.fn-box');b.style.left='';f.classList.remove('down');var r=b.getBoundingClientRect(),w=document.documentElement.clientWidth;if(r.right>w-12)b.style.left=(b.offsetLeft-(r.right-(w-12)))+'px';if(r.top<80)f.classList.add('down');}document.querySelectorAll('.fn').forEach(function(f){f.addEventListener('mouseenter',function(){fit(f)})});document.addEventListener('click',function(ev){var i=ev.target.closest('.fn-i');document.querySelectorAll('.fn.open').forEach(function(x){if(!i||x!==i.parentNode){x.classList.remove('open');x.querySelector('.fn-i').setAttribute('aria-expanded','false')}});if(i){var f=i.parentNode,o=f.classList.toggle('open');i.setAttribute('aria-expanded',o?'true':'false');if(o)fit(f)}});document.addEventListener('keydown',function(ev){if(ev.key==='Escape')document.querySelectorAll('.fn.open').forEach(function(x){x.classList.remove('open')})})})()</script><figure class="photo"><img src="../../img/news/trinidad_jcpc_buggery_ruling-b-en.jpg" alt="Section 13 of Trinidad and Tobago&#x27;s Sexual Offences Act, as amended in 2012 and as the High Court rewrote it in 2018" loading="lazy" width="1200" height="733"><figcaption>Section 13 of Trinidad and Tobago&#x27;s Sexual Offences Act, as amended in 2012 and as the High Court rewrote it in 2018 · Graphic: HOLT NEWS · Source: Privy Council judgment</figcaption></figure>
 <div class="fix"><h4>Corrections</h4><ul><li><time datetime="2026-11-12">Nov 12, 2026</time> We corrected the age in the section 16 exception to &#x27;16 or over&#x27;, as the statute says, and added the exception for husband and wife. We also added what Mr Jones asked the courts to declare and more of his unchallenged evidence, as set out in the judgment.</li></ul></div>
 <div class="sharebar sb-end"><span class="sb-more"><button type="button" class="ic" data-more aria-label="More" title="More"><svg viewBox="0 0 24 24" width="20" height="20" fill="currentColor" aria-hidden="true"><circle cx="5.5" cy="12" r="1.5"/><circle cx="12" cy="12" r="1.5"/><circle cx="18.5" cy="12" r="1.5"/></svg></button><span class="sb-menu"><button type="button" data-share="native" data-u="https://holtnews.com/en/news/trinidad_jcpc_buggery_ruling.html" data-t="Trinidad and Tobago&#x27;s buggery law breaches rights, Privy Council rules" data-ok="Link copied">Share</button><button type="button" data-share="copy" data-u="https://holtnews.com/en/news/trinidad_jcpc_buggery_ruling.html" data-ok="Link copied">Copy link</button><a href="mailto:hello@holtnews.com?subject=Error report: Trinidad and Tobago&#x27;s buggery law breaches rights, Privy Council rules">Report an error</a></span></span></div>
 

diff --git a/history-debates.html b/history-debates.html
@@ -27,7 +27,7 @@
 <main>
 <div class="page hist" id="top"><h1>홀트뉴스가 만들어진 기록</h1>
 <p class="hist-lead">홀트뉴스는 한 사람과 AI가 대화로 만들었습니다. 2026년 10월 18일 저녁, "너가 쇼츠를 만들 수 있어?"라는 질문에서 시작했습니다. 인스타그램 계정이 먼저 생겼고, 3주 뒤 이 사이트가 열렸습니다.</p>
-<p class="hist-stat">대화 27일 · 메시지 6,816개 · 코드 커밋 1,111개 · 2026-11-12 기준</p>
+<p class="hist-stat">대화 27일 · 메시지 6,821개 · 코드 커밋 1,112개 · 2026-11-12 기준</p>
 <nav class="htab"><a href="history.html">연표</a><a href="history-debates.html" class="on" aria-current="page">논쟁</a><a href="history-fix.html">바로잡은 것</a></nav>
 <p class="hist-lead">사람과 AI가 부딪친 대목입니다. 그때 오간 대화를 옮겼습니다. ChatGPT 평가는 사람이 받아 와 붙여 넣은 것입니다.</p>
 <nav class="dmenu"><p class="dm-era">SNS 시절</p><ul><li><a href="#v-ads_sns">SNS로 돈을 벌 수 있나</a></li><li><a href="#v-who_picks">누가 고른 게 더 잘 나왔나</a></li><li><a href="#v-seven_six">7시간이냐 6시간이냐</a></li></ul><p class="dm-era">웹사이트 시절</p><ul><li><a href="#v-ads">광고, 그리고 이 사이트는 무엇인가</a></li><li><a href="#v-mouse">쥐 실험이라고 제목에 밝힐까</a></li><li><a href="#v-ai_disclosure">AI가 만든다는 걸 밝힐까</a></li><li><a href="#v-good_box">&#x27;나는 착해요&#x27; 상자</a></li><li><a href="#v-seven_six_site">사이트에서 바로잡은 7시간 제목</a></li><li><a href="#v-google_eyes">구글 눈치를 봐야 하나</a></li></ul></nav>

diff --git a/history.html b/history.html
@@ -27,7 +27,7 @@
 <main>
 <div class="page hist" id="top"><h1>홀트뉴스가 만들어진 기록</h1>
 <p class="hist-lead">홀트뉴스는 한 사람과 AI가 대화로 만들었습니다. 2026년 10월 18일 저녁, "너가 쇼츠를 만들 수 있어?"라는 질문에서 시작했습니다. 인스타그램 계정이 먼저 생겼고, 3주 뒤 이 사이트가 열렸습니다.</p>
-<p class="hist-stat">대화 27일 · 메시지 6,816개 · 코드 커밋 1,111개 · 2026-11-12 기준</p>
+<p class="hist-stat">대화 27일 · 메시지 6,821개 · 코드 커밋 1,112개 · 2026-11-12 기준</p>
 <nav class="htab"><a href="history.html" class="on" aria-current="page">연표</a><a href="history-debates.html">논쟁</a><a href="history-fix.html">바로잡은 것</a></nav>
 <p class="hist-lead">무엇을 정했고, 어디서 부딪쳤고, 무엇이 틀렸는지 적었습니다. 굵직한 순간에는 그때 오간 대화를 붙였습니다. 대화에서 흰 말풍선이 AI, 검은 말풍선이 사람입니다. 크게 부딪친 대목은 논쟁 메뉴에서 볼 수 있습니다. 시각은 한국 시간입니다. 그 사람의 이름은 적지 않습니다.</p>
 <div class="ctl">

diff --git a/history-fix.html b/history-fix.html
@@ -27,7 +27,7 @@
 <main>
 <div class="page hist" id="top"><h1>홀트뉴스가 만들어진 기록</h1>
 <p class="hist-lead">홀트뉴스는 한 사람과 AI가 대화로 만들었습니다. 2026년 10월 18일 저녁, "너가 쇼츠를 만들 수 있어?"라는 질문에서 시작했습니다. 인스타그램 계정이 먼저 생겼고, 3주 뒤 이 사이트가 열렸습니다.</p>
-<p class="hist-stat">대화 27일 · 메시지 6,816개 · 코드 커밋 1,111개 · 2026-11-12 기준</p>
+<p class="hist-stat">대화 27일 · 메시지 6,821개 · 코드 커밋 1,112개 · 2026-11-12 기준</p>
 <nav class="htab"><a href="history.html">연표</a><a href="history-debates.html">논쟁</a><a href="history-fix.html" class="on" aria-current="page">바로잡은 것</a></nav>
 <p class="hist-lead">발행한 뒤 사실·숫자·대상이 틀린 걸 찾아 고친 기록입니다. 오탈자나 표현 다듬기는 넣지 않았습니다. 같은 내용이 각 글 끝 '바로잡습니다' 칸에도 있습니다.</p>
 <p class="vs-score"><span>고친 글 <b>14</b></span><span>바로잡은 날 <b>5</b></span></p>
